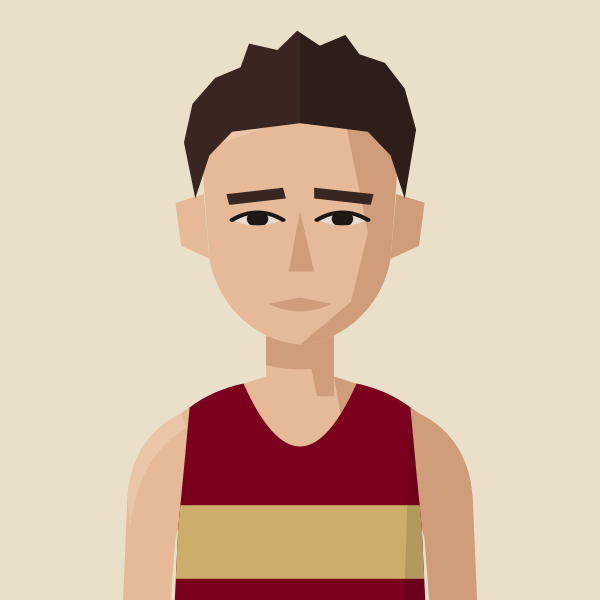
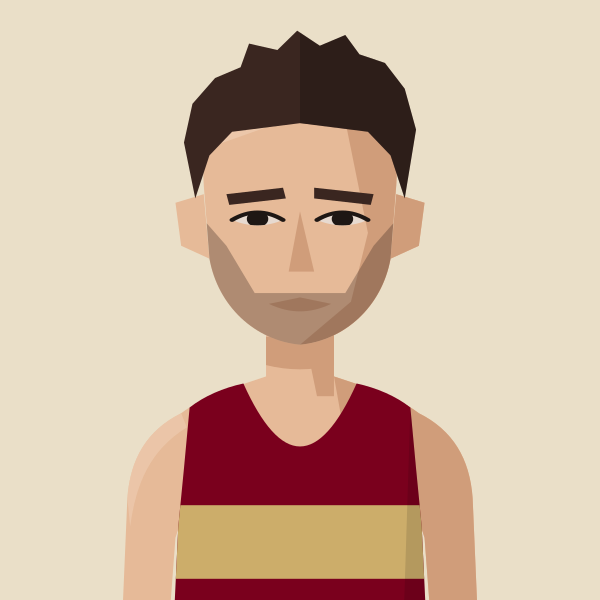
Andy Fyfe: light stubble
Claude-Session: https://claude.ai/code/session_01MgmDWhFqnSSnP4iBLKXUZC

Changed region(s): [[0.33, 0.36, 0.66, 0.6]]

diff --git a/files/index.html b/files/index.html
@@ -577,7 +577,7 @@ add('kitty-shepherd-cross','BEL','Kitty Shepherd-Cross','Kitty Shepherd Cross');
 return m;})();
 // Athlete header figure: superstar portrait if we have one, else a grey runner in the club vest, else the plain vest icon
 // Changes whenever any portrait changes (set by tools/build_og.py), so browsers fetch fresh images instead of old cached ones
-const PORTRAIT_V='18a11032';
+const PORTRAIT_V='d000ddeb';
 const AthletePortrait=({name,club,w,fill,onClick})=>{const[failed,setFailed]=useState(false);const pk=PORTRAITS[normalizeNameForCompare(name).replace(/\s*\([^)]*\)$/,'')];const file=pk&&pk.club===club?pk.file:null;const src=file?`/portraits/athletes/${file}.svg?v=${PORTRAIT_V}`:PORTRAIT_CLUBS.has(club)?`/portraits/clubs/${club.replace(/\//g,'').replace(/&/g,'and')}.svg?v=${PORTRAIT_V}`:null;if(!src||failed)return<div onClick={onClick} className={onClick?'cursor-pointer':''}><ClubShield club={club} size={w}/></div>;const h=Math.round(w*148/126),ih=Math.round(w*1.4);if(fill)return<div onClick={onClick} className="cursor-pointer" style={{alignSelf:'stretch',minHeight:h,aspectRatio:'126 / 148',flexShrink:0,position:'relative',borderRadius:4,overflow:'hidden'}}><img src={src} alt={file?`Portrait of ${name.replace(/\s*\([^)]*\)$/,'')}`:`Runner in ${CLUBS[club]?.name||club} vest`} style={{position:'absolute',top:0,left:0,display:'block',width:'100%',height:'auto'}} onError={()=>setFailed(true)}/></div>;return<div style={{width:w,height:h,borderRadius:4,overflow:'hidden',flexShrink:0}}><img src={src} alt={file?`Portrait of ${name.replace(/\s*\([^)]*\)$/,'')}`:`Runner in ${CLUBS[club]?.name||club} vest`} width={w} height={ih} style={{display:'block',width:w,height:ih}} onError={()=>setFailed(true)}/></div>;};
 const getClubVestSvg=(club)=>{
   const p="M3 0 L6 0 Q7 4 10 5 Q13 4 14 0 L17 0 L17 20 L3 20 Z";

diff --git a/tools/gen_portraits.py b/tools/gen_portraits.py
@@ -389,7 +389,7 @@ save("penney", figure("H/W", skin=1, hair="quiff", hair_colour="dark brown"))
 save("dempsey", figure("THH", skin=1, hair="croppeak", hair_colour="blonde"))
 save("hart", figure("BEL", skin=1, hair="tousled", hair_colour="light brown"))
 save("sanderson", figure("G&G", skin=2, hair="quiff", hair_colour="dark brown", facial="stubble"))
-save("fyfe", figure("BEL", skin=2, hair="tousled", hair_colour="dark brown"))
+save("fyfe", figure("BEL", skin=2, hair="tousled", hair_colour="dark brown", facial="stubble"))
 save("hair_tousled", figure("HOL", skin=2, hair="tousled", hair_colour="mid brown"))
 save("saron", figure("BEL", skin=4, hair="ponytail", hair_colour="black"))
 save("owor", figure("BEL", skin=6, hair="buzz", hair_colour="black", beanie="#5E6266"))
